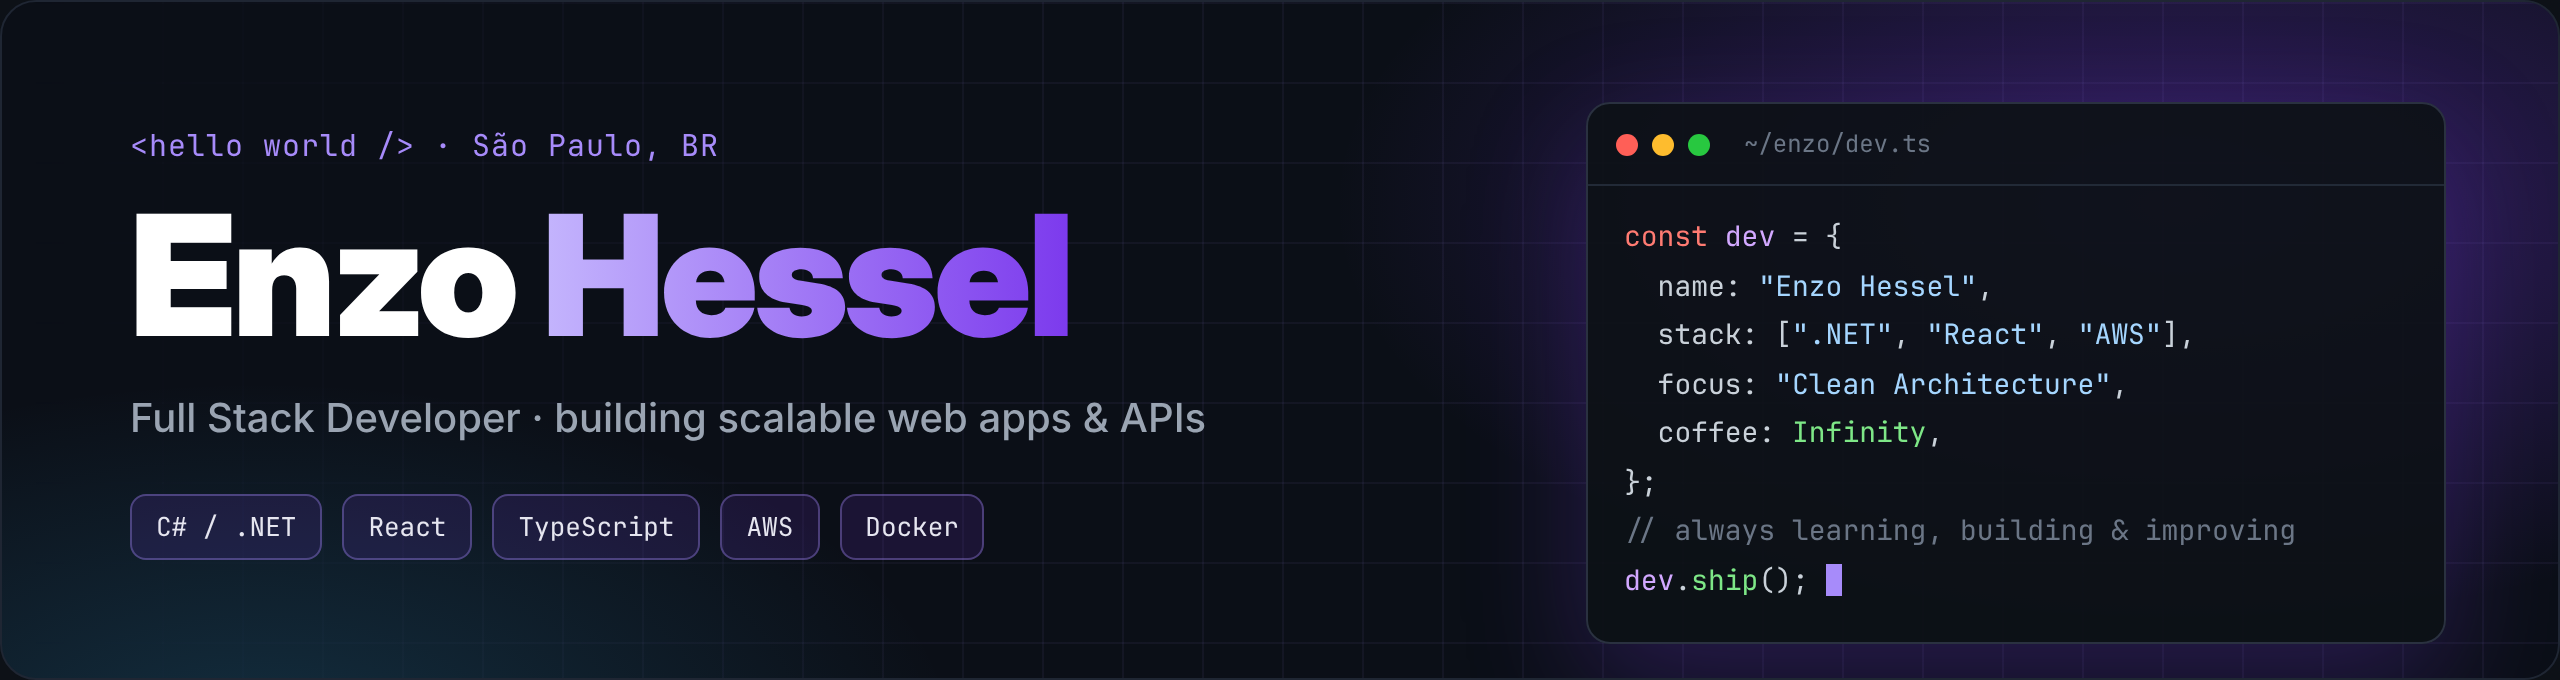
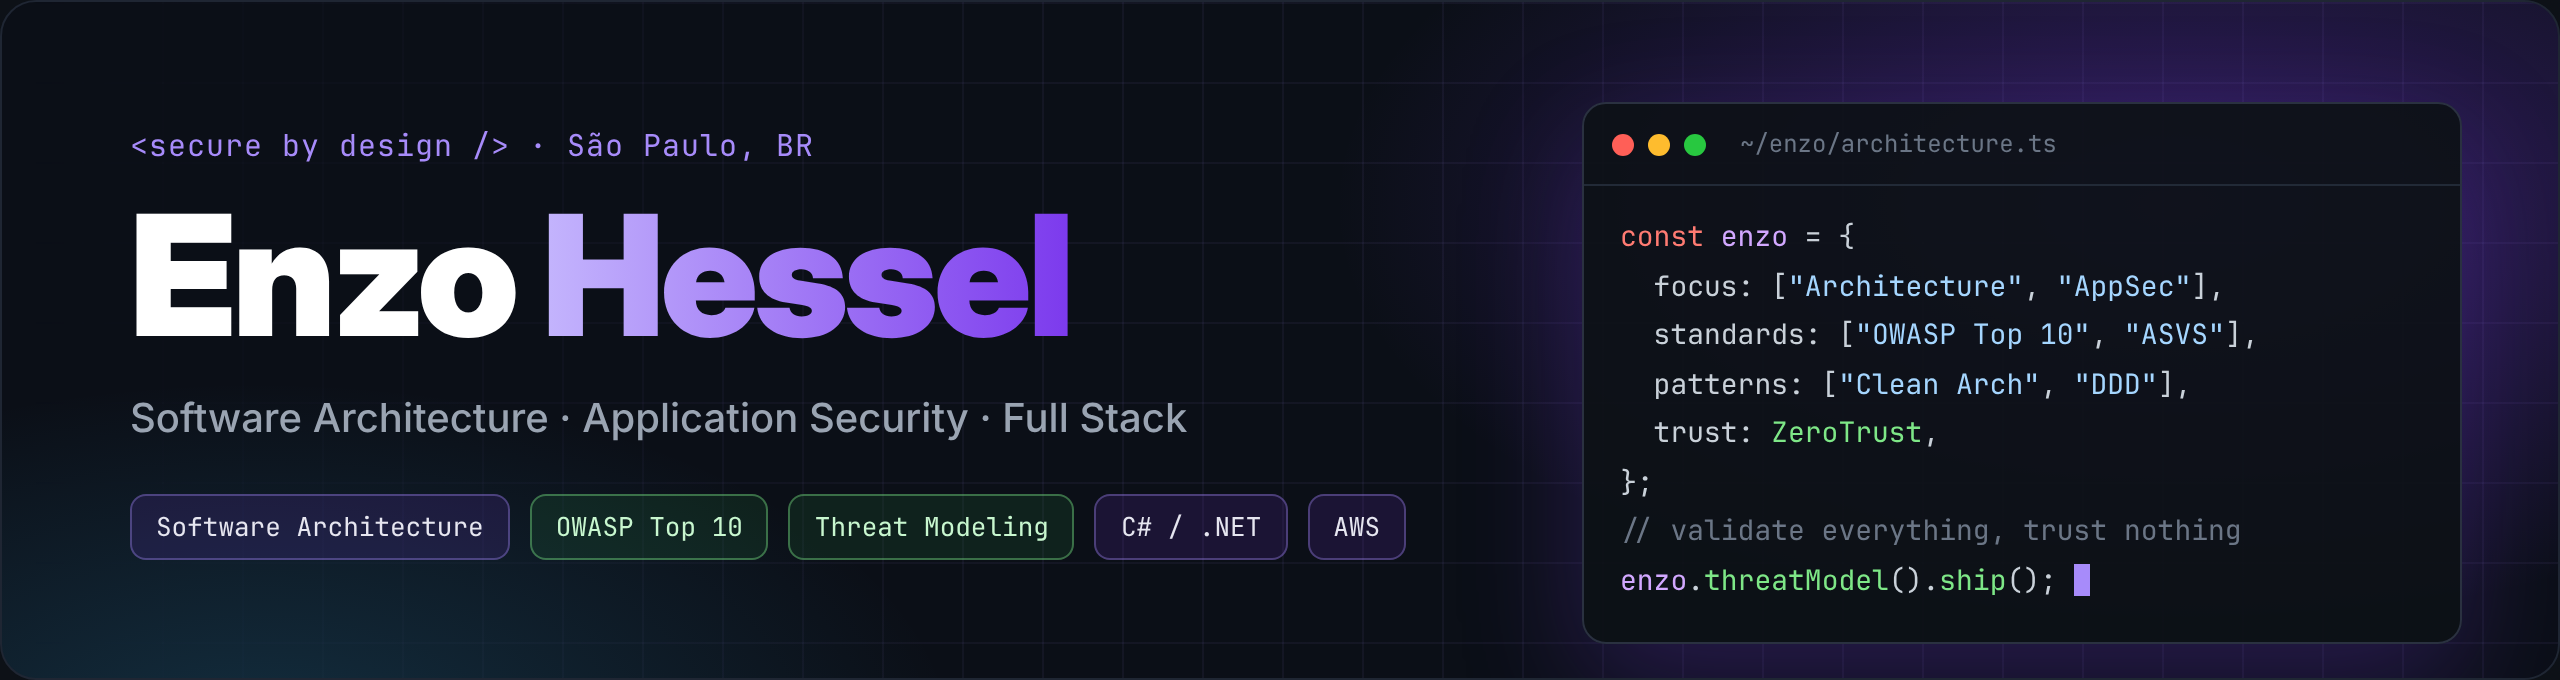
Refocus profile on software architecture and AppSec (OWASP)
Claude-Session: https://claude.ai/code/session_01647iri64qqdLnEX1qEM69b

diff --git a/README.md b/README.md
@@ -1,8 +1,8 @@
 <div align="center">
 
-<img width="100%" src="assets/banner.png" alt="Enzo Hessel - Full Stack Developer"/>
+<img width="100%" src="assets/banner.png" alt="Enzo Hessel - Software Architecture & Application Security"/>
 
-[![Typing SVG](https://readme-typing-svg.herokuapp.com/?font=Fira+Code&weight=600&color=A78BFA&size=24&center=true&vCenter=true&width=700&lines=Hi!+I'm+Enzo+Hessel+%F0%9F%91%8B;Full+Stack+Developer;C%23+.NET+%26+React.js;Welcome+to+my+GitHub!)](https://git.io/typing-svg)
+[![Typing SVG](https://readme-typing-svg.herokuapp.com/?font=Fira+Code&weight=600&color=A78BFA&size=24&center=true&vCenter=true&width=700&lines=Hi!+I'm+Enzo+Hessel+%F0%9F%91%8B;Software+Architecture+%F0%9F%8F%97%EF%B8%8F;Application+Security+%7C+OWASP+%F0%9F%9B%A1%EF%B8%8F;Secure+by+design.)](https://git.io/typing-svg)
 
 </div>
 
@@ -14,34 +14,34 @@
 
 ```javascript
 const enzo = {
-  role: "Full Stack Developer",
+  role: "Full Stack Developer → Software Architecture & AppSec",
   location: "São Paulo, Brazil 🇧🇷",
-  age: 21,
   education: "MBA in Software Engineering",
 
-  building: [
-    "REST APIs & Web Applications",
-    "Cloud-ready, scalable systems",
+  focus: [
+    "Software Architecture & System Design",
+    "Application Security (AppSec)",
+    "Secure SDLC / DevSecOps",
   ],
 
-  learning: [
-    "AWS & Cloud Architecture",
-    "System Design",
-    "Java & Spring",
-    "Infrastructure as Code",
-  ],
+  security: {
+    standards: ["OWASP Top 10", "OWASP ASVS", "API Security Top 10"],
+    practices: ["Threat Modeling (STRIDE)", "Secure Code Review",
+                "SAST / DAST", "AuthN & AuthZ (OAuth2, OIDC, JWT)"],
+  },
+
+  architecture: ["Clean Architecture", "DDD", "Microservices",
+                 "Event-Driven", "Cloud-Native (AWS)"],
 
   tech: {
-    frontend: ["React", "Next.js", "TypeScript", "Tailwind"],
     backend: ["C#", ".NET", "ASP.NET Core", "Node.js"],
-    database: ["SQL Server", "PostgreSQL", "MySQL"],
-    devops: ["AWS", "Docker", "GitHub Actions"],
+    frontend: ["React", "Next.js", "TypeScript"],
+    infra: ["AWS", "Docker", "GitHub Actions", "Terraform"],
   },
 };
 ```
 
-> *"Always learning, building and improving."*
-> — Enzo Hessel
+> *"Security is not a feature, it's an architectural decision."*
 
 </td>
 <td width="45%" align="center" valign="middle">
@@ -51,6 +51,49 @@ const enzo = {
 </td>
 </tr>
 </table>
+
+## 🛡 Architecture & AppSec
+
+<table>
+<tr>
+<td width="50%" valign="top">
+
+### 🏗 Software Architecture
+
+- Clean Architecture, Hexagonal & **DDD**
+- Microservices, modular monoliths & event-driven systems
+- System Design, scalability & resilience
+- Architecture decision records (ADRs) & trade-off analysis
+- Cloud-native architecture on **AWS**
+
+</td>
+<td width="50%" valign="top">
+
+### 🔐 Application Security
+
+- **OWASP Top 10** & **OWASP API Security Top 10**
+- **OWASP ASVS** as a security requirements baseline
+- Threat Modeling (**STRIDE**) from the design phase
+- Secure code review, SAST / DAST / SCA in CI/CD
+- AuthN & AuthZ: OAuth2, OpenID Connect, JWT
+
+</td>
+</tr>
+</table>
+
+<div align="center">
+
+![OWASP](https://img.shields.io/badge/OWASP-000000?style=flat-square&logo=owasp&logoColor=white)
+![OWASP ZAP](https://img.shields.io/badge/OWASP_ZAP-00549E?style=flat-square&logo=zap&logoColor=white)
+![Burp Suite](https://img.shields.io/badge/Burp_Suite-FF6633?style=flat-square&logo=burpsuite&logoColor=white)
+![SonarQube](https://img.shields.io/badge/SonarQube-4E9BCD?style=flat-square&logo=sonarqube&logoColor=white)
+![Snyk](https://img.shields.io/badge/Snyk-4C4A73?style=flat-square&logo=snyk&logoColor=white)
+![Semgrep](https://img.shields.io/badge/Semgrep-1B2A4A?style=flat-square&logo=semgrep&logoColor=white)
+![Trivy](https://img.shields.io/badge/Trivy-1904DA?style=flat-square&logo=aqua&logoColor=white)
+![OAuth2](https://img.shields.io/badge/OAuth2_%2F_OIDC-EB5424?style=flat-square&logo=auth0&logoColor=white)
+![JWT](https://img.shields.io/badge/JWT-000000?style=flat-square&logo=jsonwebtokens&logoColor=white)
+
+</div>
 
 ## 📫 Connect With Me
 
@@ -80,7 +123,8 @@ const enzo = {
 ![REST API](https://img.shields.io/badge/REST_API-02569B?style=flat-square)
 ![Clean Architecture](https://img.shields.io/badge/Clean_Architecture-333333?style=flat-square)
 ![DDD](https://img.shields.io/badge/DDD-333333?style=flat-square)
-![JWT](https://img.shields.io/badge/JWT-000000?style=flat-square&logo=jsonwebtokens&logoColor=white)
+![Microservices](https://img.shields.io/badge/Microservices-333333?style=flat-square)
+![Event--Driven](https://img.shields.io/badge/Event--Driven-333333?style=flat-square)
 ![CI/CD](https://img.shields.io/badge/CI%2FCD-2088FF?style=flat-square&logo=githubactions&logoColor=white)
 ![Cursor](https://img.shields.io/badge/Cursor-000000?style=flat-square&logo=cursor&logoColor=white)
 
